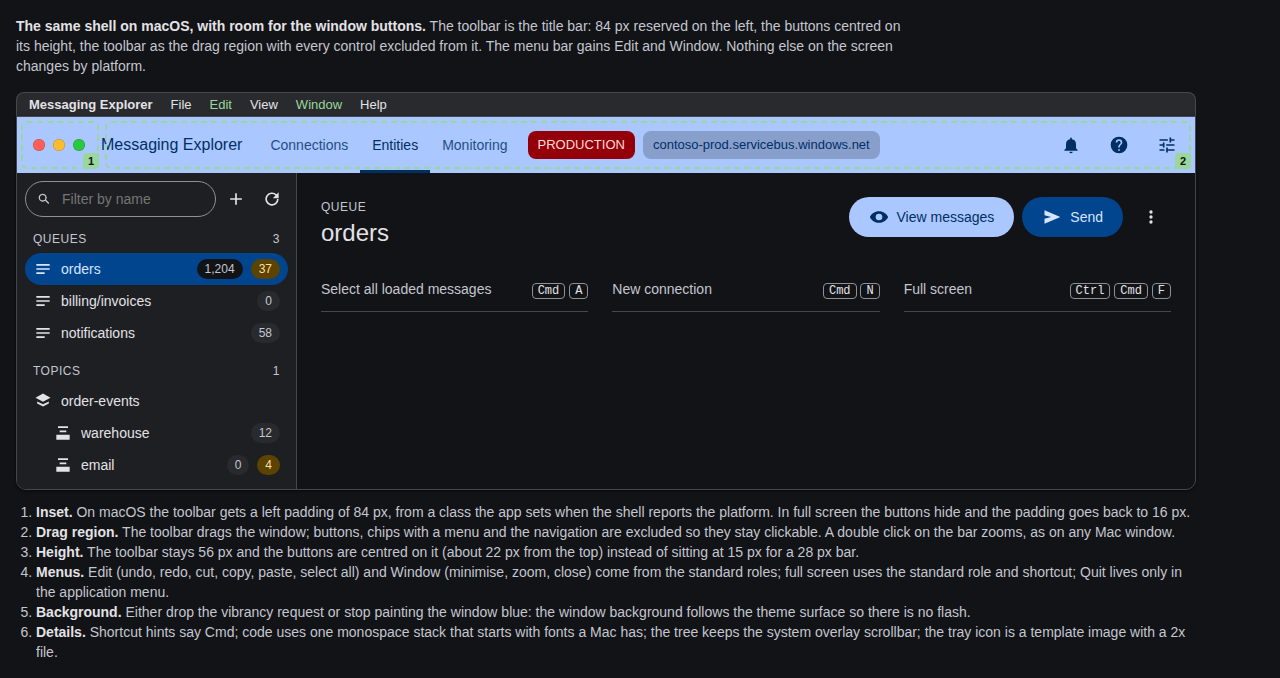
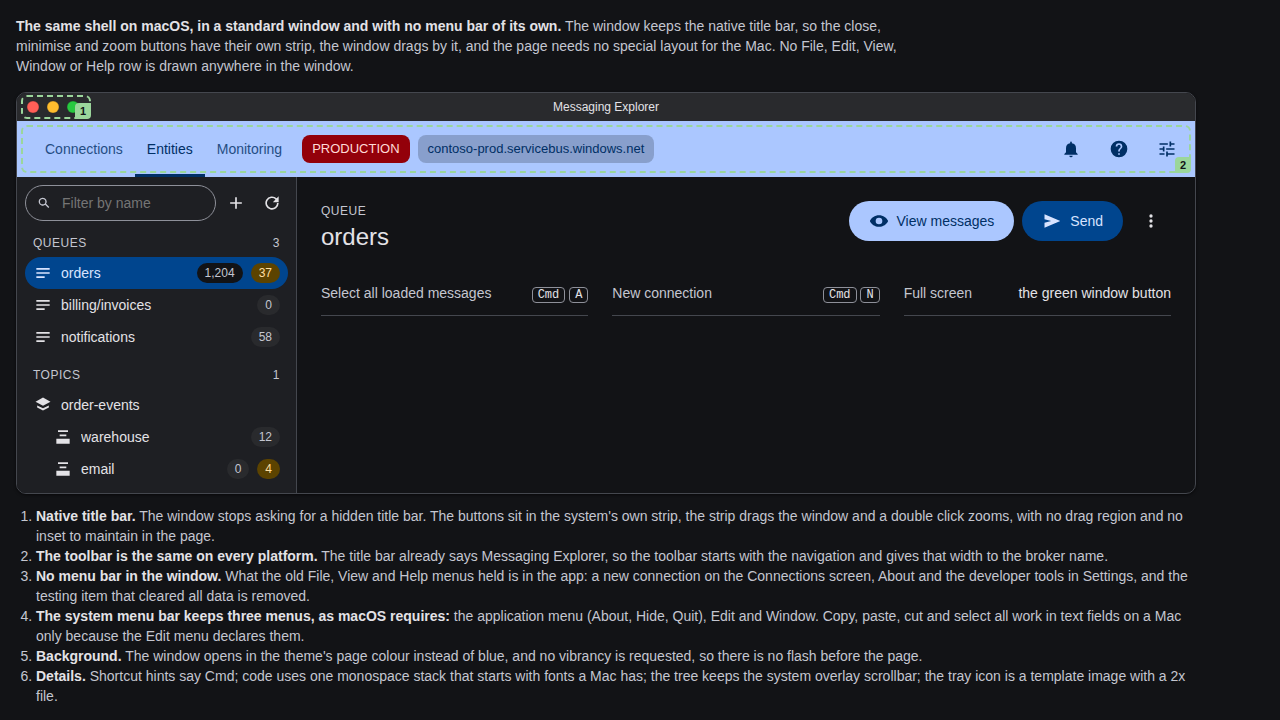
docs(vault): the window keeps the native frame and shows no menu bar
Redraws the macOS and Windows boards of the prototype on the owner's
decision: a standard window on every platform, no File, Edit, View, Window
or Help row, and on macOS only the application, Edit and Window menus of
the system bar. The review page's macOS fixes follow.

Changed region(s): [[0.0, 0.031, 0.9375, 0.9912], [0.625, 0.4027, 0.9375, 0.4646], [0.25, 0.4027, 0.5625, 0.4646]]

diff --git a/vault/prototypes/web-app/index.html b/vault/prototypes/web-app/index.html
@@ -251,7 +251,8 @@
   .win-title { display: flex; align-items: center; height: 32px; padding-left: 12px; background: var(--surface-container-high); font-size: 12px; gap: 8px; }
   .win-title .ctl { margin-left: auto; display: flex; }
   .win-title .ctl span { width: 46px; height: 32px; display: grid; place-items: center; }
-  .win-menu { display: flex; gap: 16px; height: 26px; align-items: center; padding: 0 12px; font-size: 13px; background: var(--surface-container); border-bottom: 1px solid var(--outline-variant); }
+  .win-title.mac { justify-content: center; position: relative; height: 28px; padding: 0; font-weight: 500; }
+  .win-title.mac .lights { left: 10px; top: 8px; }
   .fixed-1000 { width: 1000px; height: 700px; max-width: none; }
   .fixed-1000 .shell { grid-template-columns: 240px minmax(0, 1fr); min-height: 0; height: 644px; }
   .fixed-1000 .panel { padding: 16px; overflow: hidden; }
@@ -1215,7 +1216,7 @@ Last errors (2):
   <ol class="legend">
     <li><b>The close, minimise and zoom buttons sit on the first letters of the title.</b> The window uses a hidden inset title bar with the buttons at 15, 15; the toolbar starts its text at 16 px.</li>
     <li><b>The window cannot be dragged.</b> With a hidden title bar the page must declare a drag region, and no style in the app does.</li>
-    <li><b>No Edit menu: Cmd+C, Cmd+V, Cmd+X and Cmd+A may do nothing in text fields</b>, so a connection string cannot be pasted. No Window menu either: no Cmd+M, no Cmd+W.</li>
+    <li><b>No Edit menu: Cmd+C, Cmd+V, Cmd+X and Cmd+A may do nothing in text fields</b>, so a connection string cannot be pasted. No Window menu either: no Cmd+M, no Cmd+W. The File, View and Help menus drawn above are what the app sets today.</li>
     <li><b>No way to reach Monitoring.</b> The side navigation is hidden in the desktop app on every platform, and the menu only leads to Connections.</li>
     <li><b>The vibrancy asked for is never visible</b>: the window and the page both paint an opaque background. A blue window shows for a moment before the page, even in the dark theme.</li>
     <li><b>Smaller risks:</b> F11 and F12 as shortcuts, a tray icon resized from one bitmap (blurred on Retina, not a template image), Consolas and Courier New named first for code, a custom scrollbar in the tree, and an auto-update that needs a signed app.</li>
@@ -1224,42 +1225,46 @@ Last errors (2):
 
 <!-- 29. MACOS TARGET -->
 <section class="board" id="mac">
-  <p class="why"><b>The same shell on macOS, with room for the window buttons.</b> The toolbar is the title bar: 84 px reserved on the left, the buttons centred on its height, the toolbar as the drag region with every control excluded from it. The menu bar gains Edit and Window. Nothing else on the screen changes by platform.</p>
-  <div class="macbar" aria-label="macOS menu bar"><b>Messaging Explorer</b><span>File</span><span class="new">Edit</span><span>View</span><span class="new">Window</span><span>Help</span></div>
-  <div class="frame win-mac" style="border-radius:0 0 10px 10px">
-    <div class="lights" style="left:16px;top:22px"><i></i><i></i><i></i></div>
-    <div class="pin ok" style="left:4px;top:4px;width:78px;height:48px"><span>1</span></div>
-    <div class="pin ok" style="left:88px;top:4px;right:4px;height:48px"><span>2</span></div>
-    <div class="toolbar" data-env="prod" data-nav="entities" data-mac="1"></div>
+  <p class="why"><b>The same shell on macOS, in a standard window and with no menu bar of its own.</b> The window keeps the native title bar, so the close, minimise and zoom buttons have their own strip, the window drags by it, and the page needs no special layout for the Mac. No File, Edit, View, Window or Help row is drawn anywhere in the window.</p>
+  <div class="frame win-mac">
+    <div class="win-title mac"><div class="lights"><i></i><i></i><i></i></div>Messaging Explorer</div>
+    <div class="pin ok" style="left:4px;top:2px;width:70px;height:24px"><span>1</span></div>
+    <div class="pin ok" style="left:4px;top:32px;right:4px;height:48px"><span>2</span></div>
+    <div class="toolbar" data-env="prod" data-nav="entities" data-nobrand="1"></div>
     <div class="shell" style="min-height:300px">
       <nav class="tree" aria-label="Entities" data-sel="orders"></nav>
       <main class="panel"><div class="head"><div class="title"><div class="kind">Queue</div><h2>orders</h2></div><div class="actions"><button class="btn filled"><svg class="i"><use href="#i-eye"/></svg>View messages</button><button class="btn tonal"><svg class="i"><use href="#i-send"/></svg>Send</button><button class="icon-btn" aria-label="More actions" title="More actions"><svg class="i"><use href="#i-more"/></svg></button></div></div>
-      <div class="props"><div class="prop"><span>Select all loaded messages</span><span><span class="kbd">Cmd</span> <span class="kbd">A</span></span></div><div class="prop"><span>New connection</span><span><span class="kbd">Cmd</span> <span class="kbd">N</span></span></div><div class="prop"><span>Full screen</span><span><span class="kbd">Ctrl</span> <span class="kbd">Cmd</span> <span class="kbd">F</span></span></div></div></main>
+      <div class="props"><div class="prop"><span>Select all loaded messages</span><span><span class="kbd">Cmd</span> <span class="kbd">A</span></span></div><div class="prop"><span>New connection</span><span><span class="kbd">Cmd</span> <span class="kbd">N</span></span></div><div class="prop"><span>Full screen</span><span>the green window button</span></div></div></main>
     </div>
   </div>
   <ol class="legend">
-    <li><b>Inset.</b> On macOS the toolbar gets a left padding of 84 px, from a class the app sets when the shell reports the platform. In full screen the buttons hide and the padding goes back to 16 px.</li>
-    <li><b>Drag region.</b> The toolbar drags the window; buttons, chips with a menu and the navigation are excluded so they stay clickable. A double click on the bar zooms, as on any Mac window.</li>
-    <li><b>Height.</b> The toolbar stays 56 px and the buttons are centred on it (about 22 px from the top) instead of sitting at 15 px for a 28 px bar.</li>
-    <li><b>Menus.</b> Edit (undo, redo, cut, copy, paste, select all) and Window (minimise, zoom, close) come from the standard roles; full screen uses the standard role and shortcut; Quit lives only in the application menu.</li>
-    <li><b>Background.</b> Either drop the vibrancy request or stop painting the window blue: the window background follows the theme surface so there is no flash.</li>
+    <li><b>Native title bar.</b> The window stops asking for a hidden title bar. The buttons sit in the system's own strip, the strip drags the window and a double click zooms, with no drag region and no inset to maintain in the page.</li>
+    <li><b>The toolbar is the same on every platform.</b> The title bar already says Messaging Explorer, so the toolbar starts with the navigation and gives that width to the broker name.</li>
+    <li><b>No menu bar in the window.</b> What the old File, View and Help menus held is in the app: a new connection on the Connections screen, About and the developer tools in Settings, and the testing item that cleared all data is removed.</li>
+    <li><b>The system menu bar keeps three menus, as macOS requires:</b> the application menu (About, Hide, Quit), Edit and Window. Copy, paste, cut and select all work in text fields on a Mac only because the Edit menu declares them.</li>
+    <li><b>Background.</b> The window opens in the theme's page colour instead of blue, and no vibrancy is requested, so there is no flash before the page.</li>
     <li><b>Details.</b> Shortcut hints say Cmd; code uses one monospace stack that starts with fonts a Mac has; the tree keeps the system overlay scrollbar; the tray icon is a template image with a 2x file.</li>
   </ol>
 </section>
 
 <!-- 30. WINDOWS AND LINUX -->
 <section class="board" id="win">
-  <p class="why"><b>On Windows and Linux the native frame stays, and the toolbar does not repeat it.</b> The title bar already says Messaging Explorer, so the toolbar starts with the navigation and gives that width to the broker name. The menu gains Edit, loses the testing item, and Help opens the app's own About.</p>
+  <p class="why"><b>On Windows and Linux the native frame stays and there is no menu bar.</b> No File, Edit, View or Help row sits between the title bar and the toolbar: copy and paste work in text fields without a menu on these systems, and everything the menu held is in the app.</p>
   <div class="frame" style="border-radius:8px">
     <div class="win-title"><svg class="i s" style="color:var(--primary)"><use href="#i-topic"/></svg>Messaging Explorer<span class="ctl"><span aria-hidden="true">&#9472;</span><span aria-hidden="true">&#9633;</span><span aria-hidden="true">&#10005;</span></span></div>
-    <div class="win-menu"><span>File</span><span>Edit</span><span>View</span><span>Help</span></div>
     <div class="toolbar" data-env="dev" data-nav="entities" data-nobrand="1"></div>
     <div class="shell" style="min-height:300px">
       <nav class="tree" aria-label="Entities" data-sel="orders"></nav>
       <main class="panel"><div class="head"><div class="title"><div class="kind">Queue</div><h2>orders</h2></div><div class="actions"><button class="btn filled"><svg class="i"><use href="#i-eye"/></svg>View messages</button><button class="btn tonal"><svg class="i"><use href="#i-send"/></svg>Send</button><button class="icon-btn" aria-label="More actions" title="More actions"><svg class="i"><use href="#i-more"/></svg></button></div></div>
-      <p class="muted">Closing the window keeps the app in the tray on Windows and minimises it on Linux. The first time, a notification says so and says where Quit is.</p></main>
+      <div class="props"><div class="prop"><span>New connection</span><span><span class="kbd">Ctrl</span> <span class="kbd">N</span></span></div><div class="prop"><span>About, developer tools</span><span>Settings</span></div><div class="prop"><span>Quit</span><span>the tray menu</span></div></div>
+      <p class="muted" style="margin-top:16px">Closing the window keeps the app in the tray on Windows and minimises it on Linux. The first time, a notification says so and says where Quit is.</p></main>
     </div>
   </div>
+  <ol class="legend">
+    <li><b>No menu bar, and none that appears on Alt.</b> The application menu is not set on these systems, and the window hides the bar even if one is set later.</li>
+    <li><b>Where each old menu item went.</b> File, Connection: the Connections screen and its shortcut. File, Clear All Data (Testing): removed. View, developer tools and developer mode: Settings. View, full screen: the system's own shortcut. Help, About: Settings.</li>
+    <li><b>Shortcuts are handled by the page</b>, since without a menu there are no menu accelerators: the app listens for its own keys and shows them in tooltips.</li>
+  </ol>
 </section>
 
 <!-- 31. MINIMUM SIZE -->

diff --git a/vault/pages/roadmap/ui-review-2026-11.md b/vault/pages/roadmap/ui-review-2026-11.md
@@ -40,21 +40,21 @@ The owner remembers a user reporting layout problems on macOS, with no details. 
 - **Evidence:** on darwin the window is created with `titleBarStyle: 'hiddenInset'` and `trafficLightPosition: { x: 15, y: 15 }` (`web-app/electron/main.js:601`, `web-app/electron/main.js:603`). The page starts with the toolbar (`web-app/src/app/app.html:1`); in Electron the menu button is not rendered (`web-app/src/app/app.html:2`), so the first thing in the toolbar is the brand text (`web-app/src/app/app.html:8`). Nothing in the Angular app reads the platform to change layout: the only use of `platform` is the bug report (`web-app/src/app/app.ts:157`), although the preload exposes it (`web-app/electron/preload.js:52`).
 - **What a Mac user sees:** the close, minimise and zoom buttons on top of the first letters of "Messaging Explorer".
 - **How sure:** high that they overlap; the exact pixels are not known.
-- **Fix:** a `platform-darwin` class on the root element set from `electronAPI.platform`; under it the toolbar gets 84 px of left padding, removed in full screen; `trafficLightPosition` chosen so the buttons are centred on the toolbar height. Board `#mac`; the defect is board `#mac-today`.
+- **Fix (owner's decision, 2026-11-12: a standard window and no menu bar of its own):** stop asking for the hidden title bar on darwin. With the native title bar the buttons have their own strip and nothing in the page has to make room for them. Board `#mac`; the defect is board `#mac-today`.
 
 ### A2. The window cannot be dragged
 
 - **Evidence:** a hidden title bar leaves no native drag area; the page must mark one with `-webkit-app-region: drag`. The only `app-region` in the repo is `no-drag` on the splash screen (`web-app/electron/splash.html:27`); there is none under `web-app/src`.
 - **What a Mac user sees:** a window that cannot be moved by its top edge, and no double click to zoom.
 - **How sure:** high. This is the most likely content of the "layout problems" report.
-- **Fix:** the toolbar is the drag region; every button, menu trigger and chip in it is `no-drag`. Board `#mac`.
+- **Fix:** the native title bar drags the window, so the page declares no drag region. Board `#mac`.
 
 ### A3. No Edit menu and no Window menu
 
 - **Evidence:** the menu template has File, View and Help (`web-app/electron/main.js:100`, `web-app/electron/main.js:136`, `web-app/electron/main.js:166`) and, on darwin, the application menu (`web-app/electron/main.js:185`). No item uses the `undo`, `cut`, `copy`, `paste` or `selectAll` roles, and there is no `windowMenu`.
 - **What a Mac user sees:** on macOS the clipboard shortcuts are delivered through the Edit menu, so Cmd+C, Cmd+V, Cmd+X and Cmd+A may do nothing in a text field: a connection string cannot be pasted with the keyboard. Cmd+M and Cmd+W are missing too.
 - **How sure:** medium to high; it is the documented behaviour of an Electron app without those roles, not verified on this build.
-- **Fix:** add `{ role: 'editMenu' }` and `{ role: 'windowMenu' }`. Worth doing on every platform. Boards `#mac`, `#win`.
+- **Fix:** on macOS the application menu is reduced to three entries: the application menu, Edit (undo, redo, cut, copy, paste, select all) and Window. On Windows and Linux no application menu is set and the window hides the menu bar, because copy and paste work there without one. What File, View and Help held moves into the app: a new connection on the Connections screen, About and the developer tools in Settings; the testing item that clears all data is removed; shortcuts are handled by the page. Boards `#mac`, `#win`.
 
 ### A4. Menu items and shortcuts that are not macOS
 

diff --git a/vault/log.md b/vault/log.md
@@ -1,3 +1,6 @@
+## [2026-11-12] integrate | The window keeps the native frame and shows no menu bar
+The owner asked for the window pattern of his other desktop app: no File, Edit, View, Window or Help row. Boards `#mac` and `#win` of the prototype are redrawn: the native title bar on macOS, so the window buttons need no room in the page and the window drags by the title bar; no application menu on Windows and Linux; on macOS only the application, Edit and Window menus of the system bar, which copy and paste need. What the menu held moves into the app. [[pages/roadmap/ui-review-2026-11]] carries the changed fixes.
+
 ## [2026-11-12] fix | Queue details show the queue's real configuration; a message says its state and size
 `GetQueueAsync` read only the runtime properties, so the queue panel showed zeros where a subscription showed real values. It now reads configuration and runtime in parallel, two calls, and carries status, forward targets, auto delete, duplicate detection, batched operations, user metadata, max message size and the transfer dead-letter count. `MessageInfo` and `IMessage` gain the state (active, deferred, scheduled) and the body size in bytes. The pinned defect test became a test of the correct behaviour. [[pages/roadmap/code-audit-2026-11]], [[pages/services/core]].
 ## [2026-11-12] integrate | UI review and the prototype of every screen

diff --git a/vault/prototypes/web-app/README.md b/vault/prototypes/web-app/README.md
@@ -202,7 +202,7 @@ Inferred from the code, not reproduced on a Mac. The window buttons drawn over t
 
 ### 29. macOS target
 
-The same shell with an 84 px inset for the window buttons, the toolbar as the drag region, the buttons centred on the toolbar, Edit and Window menus, Cmd in the shortcut hints.
+The same shell in a standard macOS window: the native title bar holds the window buttons and drags the window, so the page needs no layout of its own for the Mac. No File, Edit, View, Window or Help row is drawn in the window; the system menu bar keeps only the application menu, Edit and Window, which macOS needs for copy and paste. Cmd in the shortcut hints.
 
 ![macOS target](./screens/29-mac.png)
 
@@ -210,7 +210,7 @@ The same shell with an 84 px inset for the window buttons, the toolbar as the dr
 
 ### 30. Windows and Linux
 
-The native frame stays and the toolbar drops the brand the title bar already shows. The menu gains Edit.
+The native frame stays, the toolbar drops the brand the title bar already shows, and there is no menu bar at all: no File, Edit, View or Help row, and none that appears on Alt. What the menu held is in the app (a new connection on the Connections screen, About and the developer tools in Settings); the testing item that cleared all data is removed.
 
 ![Windows and Linux](./screens/30-win.png)
 
